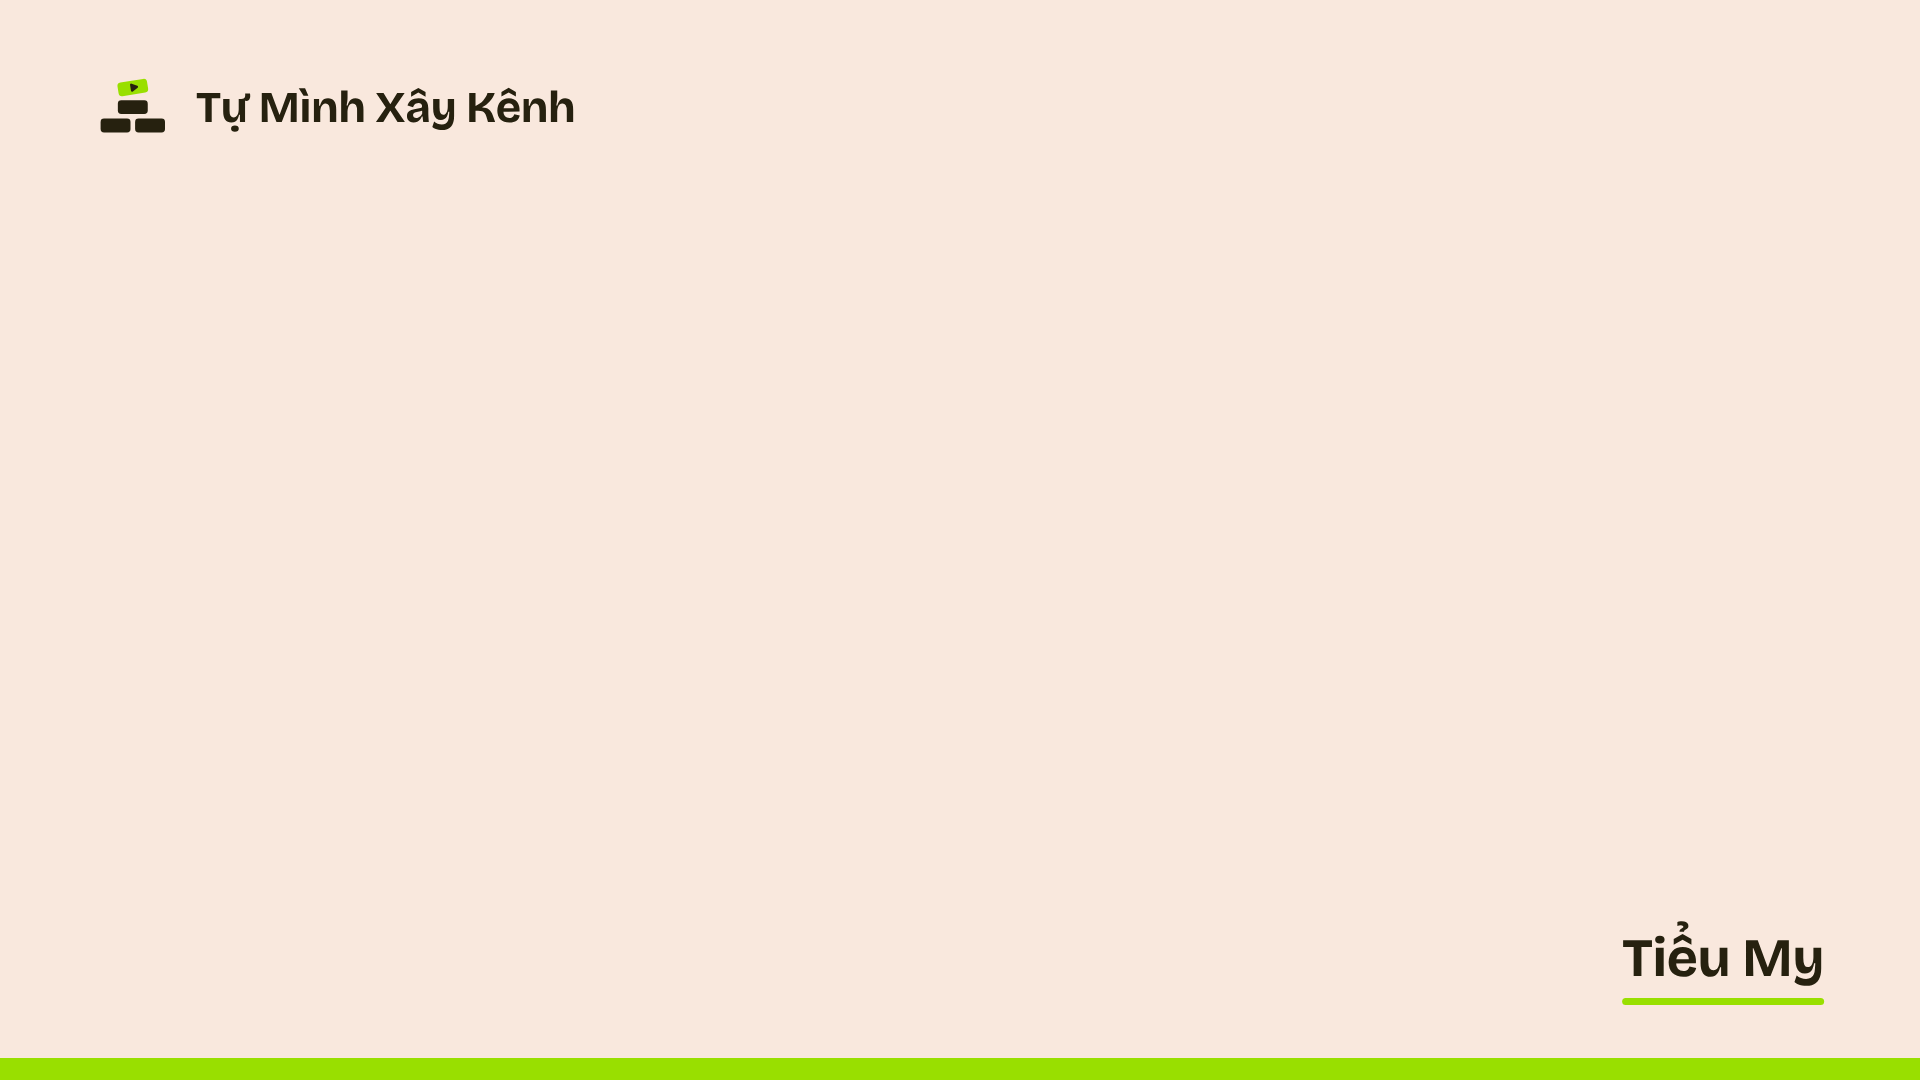
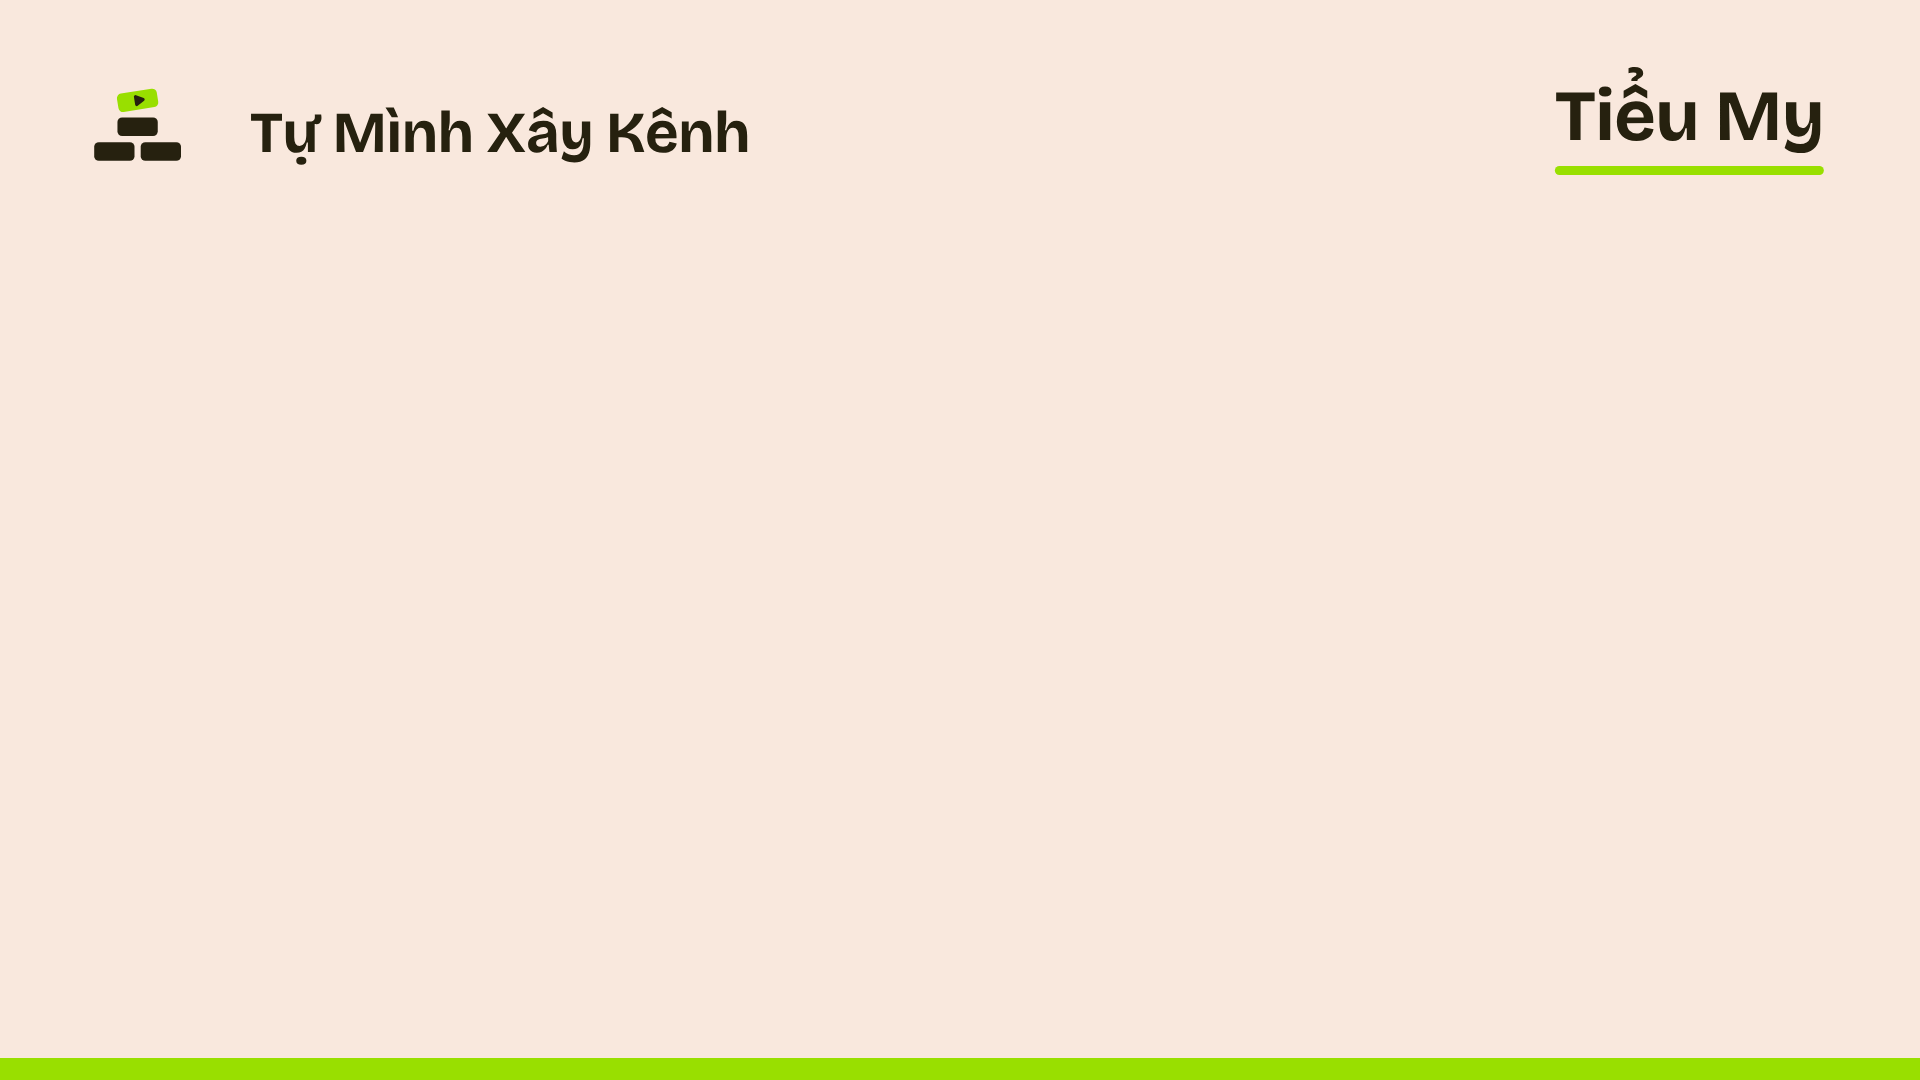
Move instructor name to the top-right and add a background maker
Teams backgrounds now put a larger logo lockup top-left and a larger
underlined instructor name top-right. tools/tao-nen-teams.html renders
the same layout on a canvas: type any name, pick light or dark, and
download the 1920x1080 PNG.

Claude-Session: https://claude.ai/code/session_01WH69ewwxZT4fN2MP3WnxQc

Changed region(s): [[0.0312, 0.0611, 0.4062, 0.1528], [0.8125, 0.0611, 0.9688, 0.1833], [0.8438, 0.8556, 0.9688, 0.9472]]

diff --git a/tools/tao-nen-teams.html b/tools/tao-nen-teams.html
@@ -1,0 +1,119 @@
+<!doctype html>
+<html lang="vi">
+<head>
+<meta charset="utf-8">
+<meta name="viewport" content="width=device-width,initial-scale=1">
+<title>Tạo nền Teams — Tự Mình Xây Kênh</title>
+<link rel="preconnect" href="https://fonts.googleapis.com">
+<link href="https://fonts.googleapis.com/css2?family=Bricolage+Grotesque:opsz,wght@12..96,500;12..96,800&display=swap" rel="stylesheet">
+<style>
+  :root{--paper:#f9e8dd;--lime:#99df00;--ink:#26210f;--moss:#1b220d}
+  *{box-sizing:border-box}
+  body{margin:0;font-family:'Bricolage Grotesque',system-ui,sans-serif;background:var(--paper);
+       color:var(--ink);min-height:100vh;display:grid;place-items:center;padding:24px}
+  .card{width:min(760px,100%);background:#fff;border:1.5px solid rgba(38,33,15,.14);
+        border-radius:20px;padding:26px;box-shadow:0 14px 40px rgba(38,33,15,.10)}
+  h1{font-size:22px;font-weight:800;margin:0 0 4px}
+  p.sub{margin:0 0 18px;font-size:14px;opacity:.65}
+  .row{display:flex;gap:10px;flex-wrap:wrap;margin-bottom:14px}
+  input[type=text]{flex:1;min-width:200px;font:inherit;font-size:17px;font-weight:500;
+    padding:12px 14px;border:1.5px solid rgba(38,33,15,.22);border-radius:12px;background:var(--paper)}
+  input[type=text]:focus{outline:2px solid var(--lime);border-color:transparent}
+  .seg{display:flex;border:1.5px solid rgba(38,33,15,.22);border-radius:12px;overflow:hidden}
+  .seg button{font:inherit;font-size:14px;font-weight:800;padding:12px 16px;border:0;
+    background:#fff;color:var(--ink);cursor:pointer}
+  .seg button.on{background:var(--ink);color:var(--lime)}
+  canvas{width:100%;border-radius:12px;border:1.5px solid rgba(38,33,15,.14);display:block}
+  .dl{margin-top:14px;width:100%;font:inherit;font-size:16px;font-weight:800;padding:14px;
+    border:0;border-radius:12px;background:var(--lime);color:var(--ink);cursor:pointer}
+  .dl:hover{filter:brightness(1.05)}
+</style>
+</head>
+<body>
+<div class="card">
+  <h1>Tạo nền gọi MS Teams</h1>
+  <p class="sub">Điền tên → chọn nền sáng/tối → bấm tải. Ảnh xuất ra 1920×1080.</p>
+  <div class="row">
+    <input id="ten" type="text" value="Minh Toàn" maxlength="30" placeholder="Tên giảng viên">
+    <div class="seg">
+      <button id="bSang" class="on" type="button">☀ Sáng</button>
+      <button id="bToi" type="button">🌙 Tối</button>
+    </div>
+  </div>
+  <canvas id="cv" width="1920" height="1080"></canvas>
+  <button class="dl" id="tai" type="button">⬇ Tải nền PNG</button>
+</div>
+
+<script>
+var LIME='#99df00', toiMode=false;
+var cv=document.getElementById('cv'), cx=cv.getContext('2d');
+
+function ro(x,y,w,h,r){ // rounded rect
+  cx.beginPath();
+  cx.moveTo(x+r,y); cx.arcTo(x+w,y,x+w,y+h,r); cx.arcTo(x+w,y+h,x,y+h,r);
+  cx.arcTo(x,y+h,x,y,r); cx.arcTo(x,y,x+w,y,r); cx.closePath(); cx.fill();
+}
+
+/* Chồng gạch: gốc hệ 64x45, scale s, đặt tại (px,py) */
+function veMark(px,py,s,brick,play,dot){
+  cx.save(); cx.translate(px,py); cx.scale(s,s);
+  cx.save();                                  // viên lime xoay -9°
+  cx.translate(32,17); cx.rotate(-9*Math.PI/180); cx.translate(-32,-17);
+  cx.fillStyle=play; ro(19,11,26,12,3);
+  cx.fillStyle=dot;
+  cx.beginPath(); cx.moveTo(30,14.4); cx.lineTo(30,19.6); cx.lineTo(36.6,17); cx.closePath(); cx.fill();
+  cx.restore();
+  cx.fillStyle=brick; ro(19,28,26,12,3); ro(4,44,26,12,3); ro(34,44,26,12,3);
+  cx.restore();
+}
+
+function ve(){
+  var ten=(document.getElementById('ten').value||'').trim()||' ';
+  var bg   = toiMode ? '#1b220d' : '#f9e8dd';
+  var chu  = toiMode ? '#f7f2e9' : '#26210f';
+  var brick= toiMode ? '#f4efe6' : '#26210f';
+  var dot  = toiMode ? '#1b220d' : '#26210f';
+
+  cx.fillStyle=bg; cx.fillRect(0,0,1920,1080);
+  veMark(88,74,1.55,brick,LIME,dot);
+
+  cx.fillStyle=chu; cx.textBaseline='alphabetic';
+  cx.font='800 58px "Bricolage Grotesque",sans-serif';
+  cx.fillText('Tự Mình Xây Kênh',250,152);
+
+  cx.font='800 72px "Bricolage Grotesque",sans-serif';
+  var w=cx.measureText(ten).width, x=1824-w;
+  cx.fillText(ten,x,140);
+  cx.fillStyle=LIME; ro(x,166,w,9,4.5);       // gạch chân lime dưới tên
+  ro(0,1058,1920,22,0);                       // vạch lime đáy khung
+}
+
+function veKhiSanFont(){
+  var f1=document.fonts.load('800 72px "Bricolage Grotesque"');
+  var f2=document.fonts.load('800 58px "Bricolage Grotesque"');
+  Promise.all([f1,f2]).then(ve).catch(ve);
+}
+
+document.getElementById('ten').addEventListener('input',ve);
+document.getElementById('bSang').onclick=function(){toiMode=false;chon(this);ve()};
+document.getElementById('bToi').onclick=function(){toiMode=true;chon(this);ve()};
+function chon(b){
+  document.querySelectorAll('.seg button').forEach(function(x){x.classList.remove('on')});
+  b.classList.add('on');
+}
+document.getElementById('tai').onclick=function(){
+  ve();
+  var ten=(document.getElementById('ten').value||'nen').trim()
+    .normalize('NFD').replace(/[̀-ͯ]/g,'').replace(/đ/g,'d').replace(/Đ/g,'D')
+    .replace(/[^\w]+/g,'-').toLowerCase();
+  var a=document.createElement('a');
+  a.download='nen-teams-'+ten+(toiMode?'-toi':'-sang')+'.png';
+  a.href=cv.toDataURL('image/png');
+  a.click();
+};
+
+veKhiSanFont();
+if (document.fonts && document.fonts.ready) document.fonts.ready.then(ve);
+</script>
+</body>
+</html>
